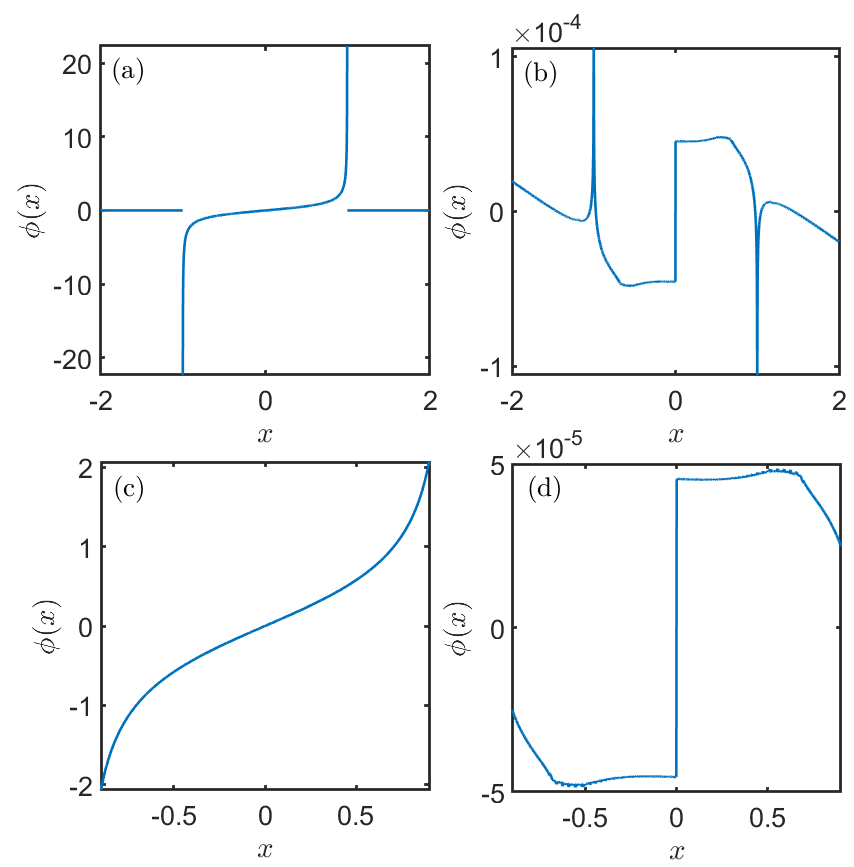
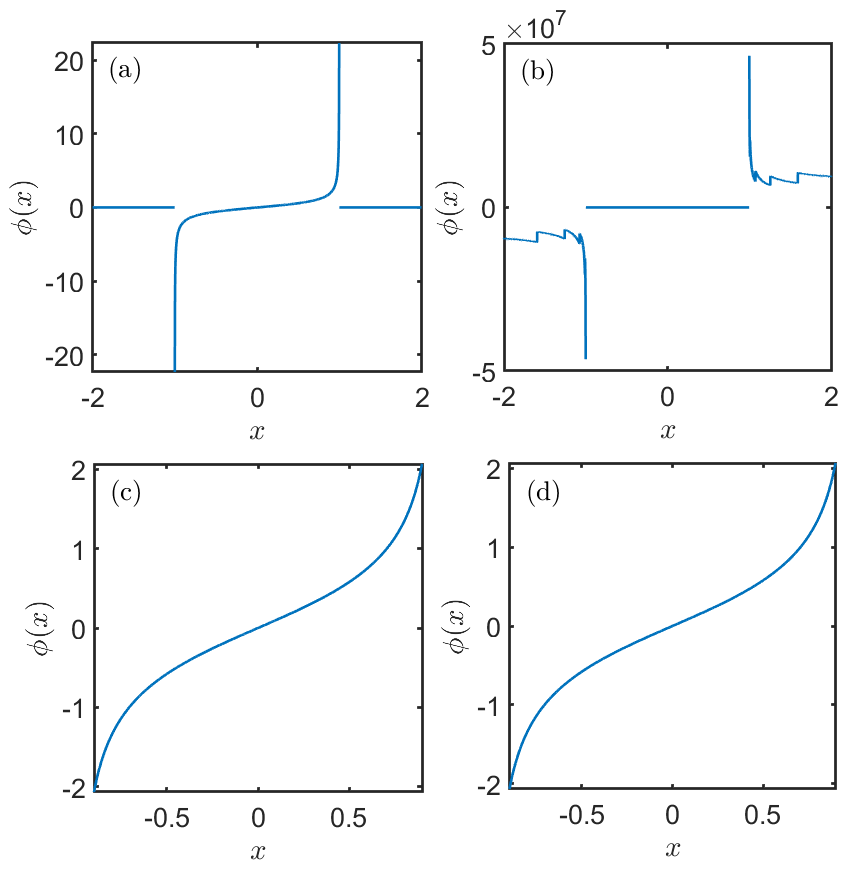
udpated 1d examples new theorem from manuscript

diff --git a/matlab/analytical1D/eigenfunctions_analytical_1D.m b/matlab/analytical1D/eigenfunctions_analytical_1D.m
@@ -41,7 +41,7 @@ options = odeset('RelTol',1e-9,'AbsTol',1e-300);
 
 
 % t_span = [-1 0];
-t_span = [0 10];
+t_span = [0 -10];
 
 parfor i = 1:length(x_0)
     % usde ode45 to test eig funs
